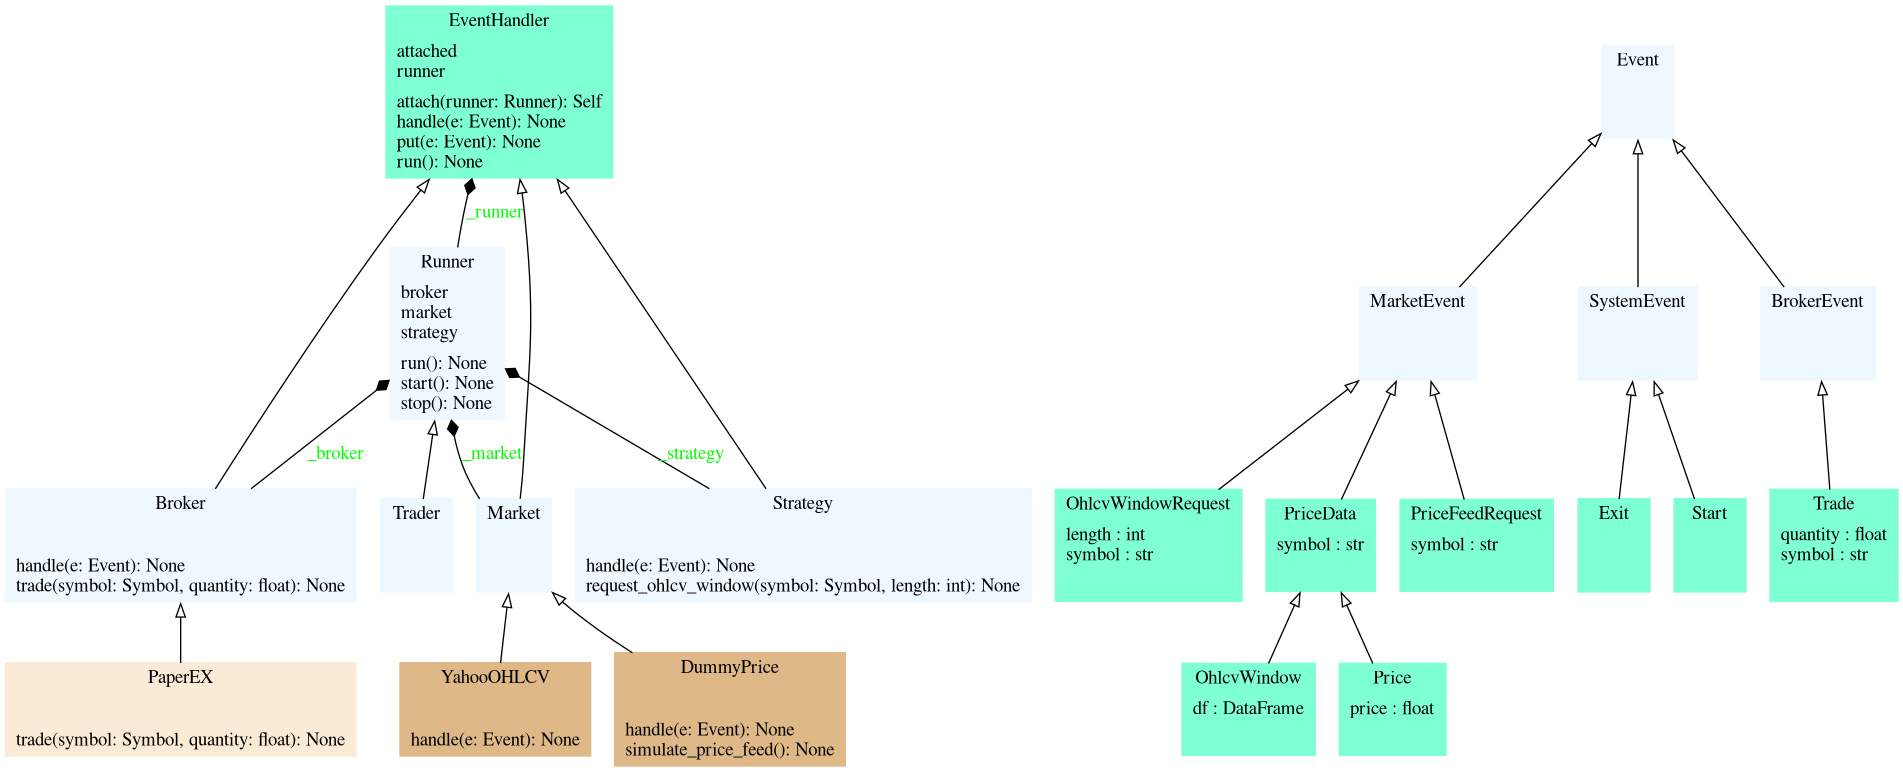
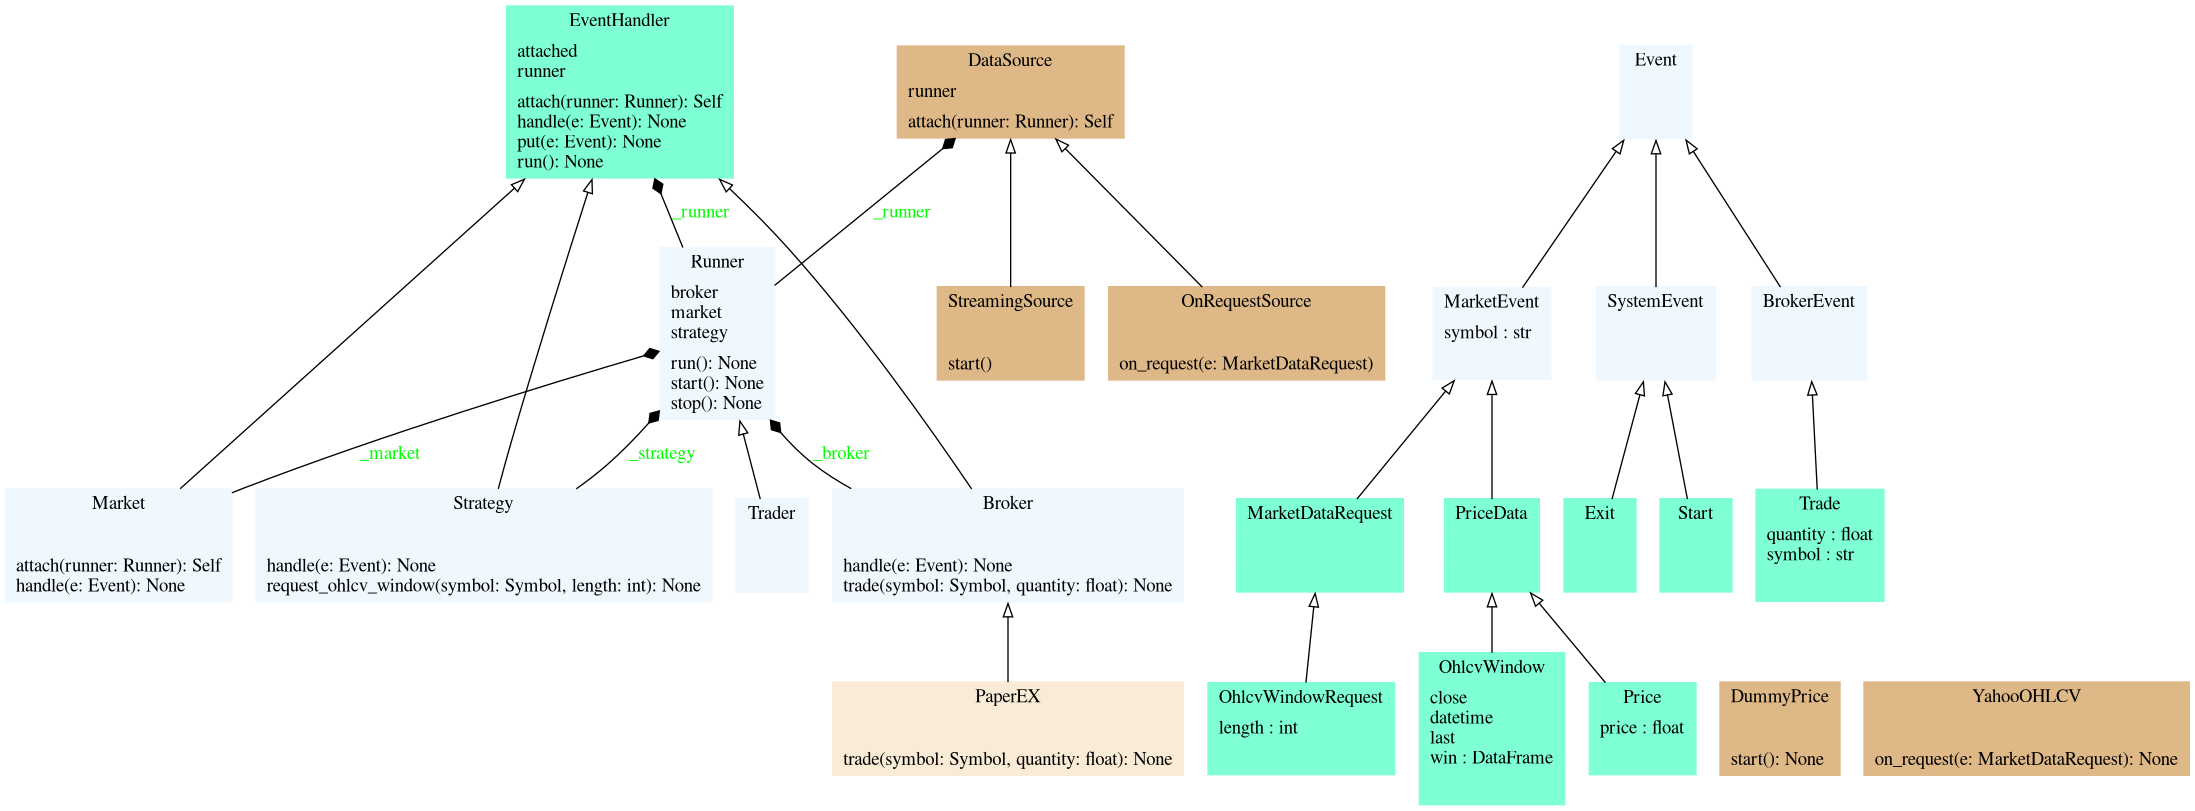
refactor: Market accept a DataSource worker for data handling

diff --git a/trbox/market/datasource/__init__.py b/trbox/market/datasource/__init__.py
@@ -1,0 +1,43 @@
+from abc import ABC, abstractmethod
+from typing import Self
+from trbox.event.market import MarketDataRequest
+from trbox.runner import Runner
+
+
+class DataSource:
+    '''
+    DataSource is not a EventHandler, and does not have any event queue.
+    It handles data for Market, and can access runner for putting events
+    to other handlers.
+    '''
+
+    def attach(self, runner: Runner) -> Self:
+        self._runner = runner
+        return self
+
+    @property
+    def runner(self) -> Runner:
+        return self._runner
+
+
+class StreamingSource(DataSource, ABC):
+    '''
+    This object listens to Start event and start pushing event automatically.
+    It could be a random generator running on a new thread, or in real 
+    trading, it could also be a websocket connection pushing new tick data.
+    '''
+    @abstractmethod
+    def start(self):
+        pass
+
+
+class OnRequestSource(DataSource, ABC):
+    '''
+    This object listens to price request from Strategy and give a single
+    response each time. Usually it could be a local generator yielding 
+    dataframes, or in real trading, it could be a REST API endpoints sending
+    price data per request.
+    '''
+    @abstractmethod
+    def on_request(self, e: MarketDataRequest):
+        pass

diff --git a/trbox/market/simulated.py b/trbox/market/simulated.py
@@ -1,12 +1,15 @@
 import time
-from trbox.event import Event
 from trbox.event.market import Price
 from threading import Thread
-from trbox.event.system import Start
-from trbox.market import Market
+from trbox.market.datasource import StreamingSource
 
 
-class DummyPrice(Market):
+class DummyPrice(StreamingSource):
+    '''
+    This is a streaming price tick simulator.
+    Upon start, it push event automatically to Strategy.
+    '''
+
     def __init__(self,
                  n: int = 30,
                  delay: int = 1) -> None:
@@ -14,7 +17,7 @@ class DummyPrice(Market):
         self._n = n
         self._delay = delay
 
-    def simulate_price_feed(self) -> None:
+    def start(self) -> None:
         def worker() -> None:
             # gen random price to simulate live market
             for i in range(self._n):
@@ -25,9 +28,3 @@ class DummyPrice(Market):
         # deamon thread will not block program from exiting
         t = Thread(target=worker, daemon=True)
         t.start()
-
-    def handle(self, e: Event) -> None:
-        if isinstance(e, Start):
-            # generate some dummy price data
-            # simulating live feed data from websocket
-            self.simulate_price_feed()

diff --git a/tests/test_basic.py b/tests/test_basic.py
@@ -3,6 +3,7 @@ import logging
 from trbox import Strategy, Trader
 from trbox.broker.simulated import PaperEX
 from trbox.event.market import OhlcvWindow, Price
+from trbox.market import Market
 from trbox.market.historical import YahooOHLCV
 from trbox.market.simulated import DummyPrice
 
@@ -13,8 +14,10 @@ def test_dummy():
         self.runner.broker.trade('BTC', +10)
 
     Trader(
-        strategy=Strategy(on_tick=dummy_action),
-        market=DummyPrice(delay=0),
+        strategy=Strategy(
+            on_tick=dummy_action),
+        market=Market(
+            source=DummyPrice(delay=1)),
         broker=PaperEX()
     ).run()
 
@@ -28,7 +31,9 @@ def test_historical_data(win_size: int):
             f'St: date={e.datetime} last={e.last.shape}, close={e.close}')
 
     Trader(
-        strategy=Strategy(on_window=dummy_action),
-        market=YahooOHLCV('tests/_data_/BTC_bar1day.csv', win_size),
+        strategy=Strategy(
+            on_window=dummy_action),
+        market=Market(
+            source=YahooOHLCV('tests/_data_/BTC_bar1day.csv', win_size)),
         broker=PaperEX()
     ).run()

diff --git a/trbox/market/__init__.py b/trbox/market/__init__.py
@@ -1,5 +1,30 @@
+from typing import Self
+from trbox.event import Event
 from trbox.event.handler import EventHandler
+from trbox.event.market import MarketDataRequest
+from trbox.event.system import Start
+from trbox.runner import Runner
+from trbox.market.datasource import \
+    DataSource, OnRequestSource, StreamingSource
 
 
 class Market(EventHandler):
-    pass
+    def __init__(self, *,
+                 source: DataSource) -> None:
+        super().__init__()
+        self._source = source
+
+    def attach(self, runner: Runner) -> Self:
+        # this will also attach DataSource in Market is init-ed
+        self._source.attach(runner)
+        return super().attach(runner)
+
+    def handle(self, e: Event) -> None:
+        # listen to system Start event
+        if isinstance(e, Start) and \
+                isinstance(self._source, StreamingSource):
+            self._source.start()
+        # listen to PriceDataRequest from Strategyy
+        if isinstance(e, MarketDataRequest) and \
+                isinstance(self._source, OnRequestSource):
+            self._source.on_request(e)

diff --git a/trbox/market/historical.py b/trbox/market/historical.py
@@ -1,13 +1,12 @@
-from trbox.event import Event
-from trbox.event.market import OhlcvWindow, OhlcvWindowRequest
-from trbox.market import Market
+from trbox.event.market import MarketDataRequest, OhlcvWindow, OhlcvWindowRequest
+from trbox.market.datasource import OnRequestSource
 from trbox.market.utils import import_yahoo_csv
 
 
-class YahooOHLCV(Market):
+class YahooOHLCV(OnRequestSource):
     '''
-    This is a relative low speed price simulator
-    simulating market data fetch using http request/response
+    This is a relative low speed price simulator.
+    It simulates market data fetch using http request/response.
     '''
 
     def __init__(self,
@@ -22,7 +21,7 @@ class YahooOHLCV(Market):
                                   for win in self._df.rolling(self._length)
                                   if len(win) >= self._length)
 
-    def handle(self, e: Event) -> None:
+    def on_request(self, e: MarketDataRequest) -> None:
         # actively listening to request
         if isinstance(e, OhlcvWindowRequest):
             try:

diff --git a/trbox/event/market.py b/trbox/event/market.py
@@ -10,14 +10,13 @@ from pandas import DataFrame
 #
 
 @dataclass
-class OhlcvWindowRequest(MarketEvent):
-    symbol: Symbol
-    length: int
+class MarketDataRequest(MarketEvent):
+    pass
 
 
 @dataclass
-class PriceFeedRequest(MarketEvent):
-    symbol: Symbol
+class OhlcvWindowRequest(MarketDataRequest):
+    length: int
 
 
 #
@@ -26,7 +25,7 @@ class PriceFeedRequest(MarketEvent):
 
 @dataclass
 class PriceData(MarketEvent):
-    symbol: Symbol
+    pass
 
 
 @dataclass

diff --git a/trbox/event/__init__.py b/trbox/event/__init__.py
@@ -1,3 +1,7 @@
+from dataclasses import dataclass
+from trbox.common.types import Symbol
+
+
 class Event:
     pass
 
@@ -9,11 +13,12 @@ class BrokerEvent(Event):
     pass
 
 
+@dataclass
 class MarketEvent(Event):
     '''
-    Price data request / response
+    All price data related events
     '''
-    pass
+    symbol: Symbol
 
 
 class SystemEvent(Event):
